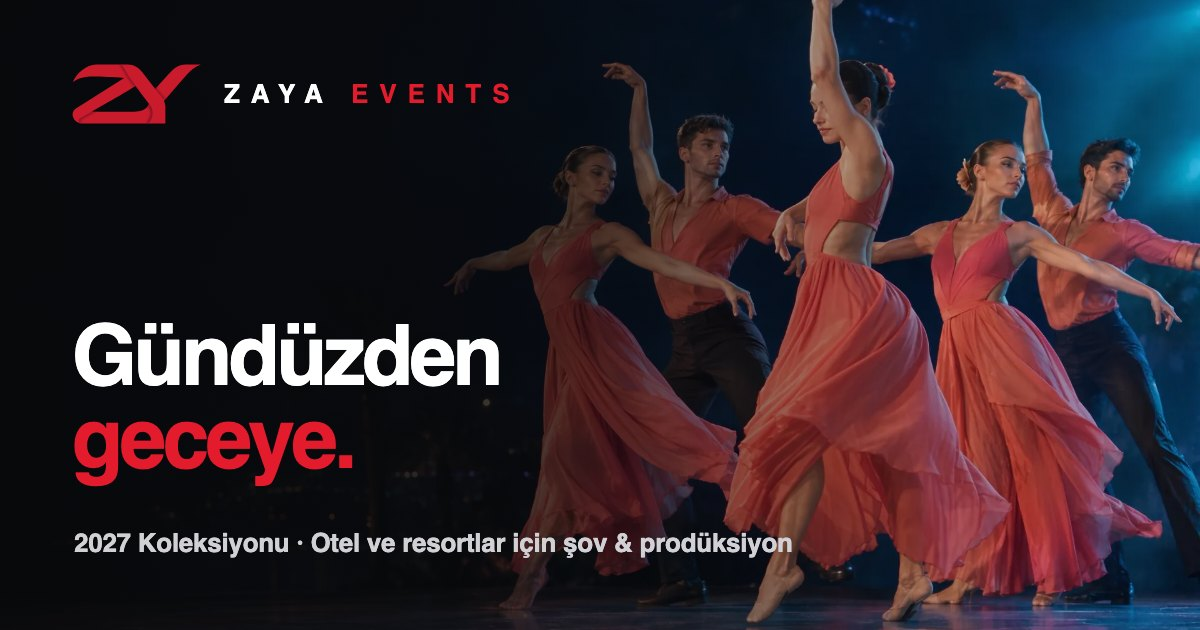
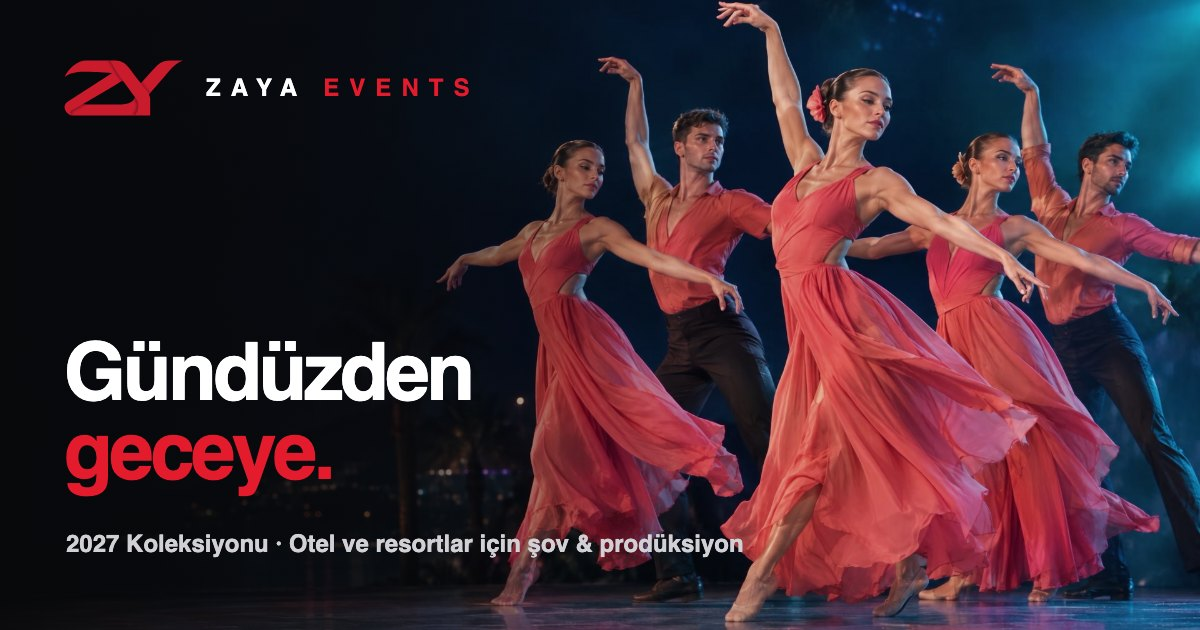
WhatsApp kartı: giriş videosunun son pozu

diff --git a/hizmetler.html b/hizmetler.html
@@ -10,7 +10,7 @@
   <meta property="og:title" content="Hizmetler — ZAYA Events">
   <meta property="og:description" content="Oteller ve resortlar için sezon boyunca şov, pool parti, kurumsal etkinlik ve teknik prodüksiyon.">
   <meta property="og:url" content="https://zayaevents.com.tr/hizmetler.html">
-  <meta property="og:image" content="https://zayaevents.com.tr/assets/og-card.jpg">
+  <meta property="og:image" content="https://zayaevents.com.tr/assets/og-card.jpg?v=2">
   <meta property="og:image:width" content="1200">
   <meta property="og:image:height" content="630">
   <meta property="og:locale" content="tr_TR">

diff --git a/index.html b/index.html
@@ -10,7 +10,7 @@
   <meta property="og:title" content="ZAYA Events — Gündüzden geceye">
   <meta property="og:description" content="Otel ve resortlar için sahne şovları, canlı müzik, tema geceleri ve pool partiler. 2027 Koleksiyonu.">
   <meta property="og:url" content="https://zayaevents.com.tr/">
-  <meta property="og:image" content="https://zayaevents.com.tr/assets/og-card.jpg">
+  <meta property="og:image" content="https://zayaevents.com.tr/assets/og-card.jpg?v=2">
   <meta property="og:image:width" content="1200">
   <meta property="og:image:height" content="630">
   <meta property="og:locale" content="tr_TR">

diff --git a/sovlar.html b/sovlar.html
@@ -10,7 +10,7 @@
   <meta property="og:title" content="Şovlar — ZAYA Events">
   <meta property="og:description" content="2027 Koleksiyonu: sahne şovları, canlı müzik, tema geceleri, pool partiler ve çocuk dünyası.">
   <meta property="og:url" content="https://zayaevents.com.tr/sovlar.html">
-  <meta property="og:image" content="https://zayaevents.com.tr/assets/og-card.jpg">
+  <meta property="og:image" content="https://zayaevents.com.tr/assets/og-card.jpg?v=2">
   <meta property="og:image:width" content="1200">
   <meta property="og:image:height" content="630">
   <meta property="og:locale" content="tr_TR">

diff --git a/sov.html b/sov.html
@@ -10,7 +10,7 @@
   <meta property="og:title" content="ZAYA Events — 2027 Koleksiyonu">
   <meta property="og:description" content="Otel ve resortlar için sahne şovları, canlı müzik, tema geceleri ve pool partiler.">
   <meta property="og:url" content="https://zayaevents.com.tr/sov.html">
-  <meta property="og:image" content="https://zayaevents.com.tr/assets/og-card.jpg">
+  <meta property="og:image" content="https://zayaevents.com.tr/assets/og-card.jpg?v=2">
   <meta property="og:image:width" content="1200">
   <meta property="og:image:height" content="630">
   <meta property="og:locale" content="tr_TR">

diff --git a/hakkinda.html b/hakkinda.html
@@ -10,7 +10,7 @@
   <meta property="og:title" content="Hakkında — ZAYA Events">
   <meta property="og:description" content="Her sahnenin kendi hikâyesi var. ZAYA Events’in hikâyesi.">
   <meta property="og:url" content="https://zayaevents.com.tr/hakkinda.html">
-  <meta property="og:image" content="https://zayaevents.com.tr/assets/og-card.jpg">
+  <meta property="og:image" content="https://zayaevents.com.tr/assets/og-card.jpg?v=2">
   <meta property="og:image:width" content="1200">
   <meta property="og:image:height" content="630">
   <meta property="og:locale" content="tr_TR">

diff --git a/iletisim.html b/iletisim.html
@@ -10,7 +10,7 @@
   <meta property="og:title" content="İletişim — ZAYA Events">
   <meta property="og:description" content="Bir şov, tarih ya da teknik detay için bize yazın.">
   <meta property="og:url" content="https://zayaevents.com.tr/iletisim.html">
-  <meta property="og:image" content="https://zayaevents.com.tr/assets/og-card.jpg">
+  <meta property="og:image" content="https://zayaevents.com.tr/assets/og-card.jpg?v=2">
   <meta property="og:image:width" content="1200">
   <meta property="og:image:height" content="630">
   <meta property="og:locale" content="tr_TR">
